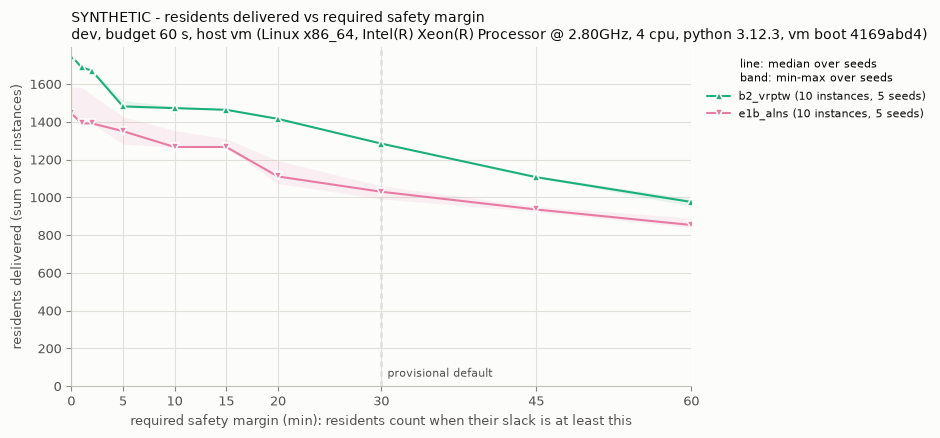
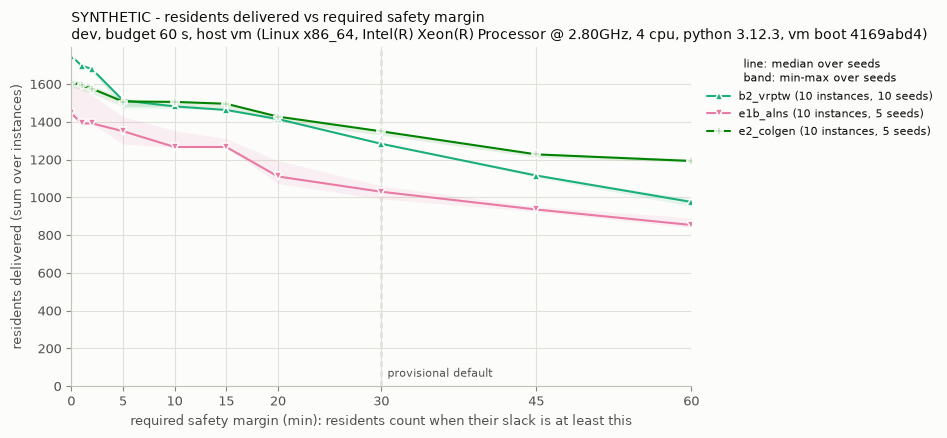
evacplan: leaderboard with E1b, E2 and both B2 partners (vm boot 4169abd4: B2 1749 in 10 seeds; E1b no, worst 1444; E2 no, worst 1585; speed check flagged in 4 of 4 holds)
Claude-Session: https://claude.ai/code/session_017vgyRQ18Wb67jh12VCHF54

diff --git a/evacplan/LEADERBOARD.md b/evacplan/LEADERBOARD.md
@@ -2,13 +2,13 @@
 
 Regenerated by `evacplan run` and `evacplan leaderboard` from `evacplan/results/*.csv` (committed; the plans and oracle results under `results/runs/` are not), with one safety-margin figure per table in `figures/`. Do not edit by hand.
 
-* **delivered**, **unresolved**, **model_no_route**, **not planned** and **unservable** come from `evacplan.oracle`: delivered = residents whose trip is `checked` in all K members; `unresolved` is never safe and never delivered; `model_no_route` is scoped to the hazard model, its members and horizon; not planned = residents no itinerary boards. **best bound** and **gap** come from the methods' own proofs (e.g. B3's relaxed MIP), not from the oracle. **runtime** is the harness's wall clock around the method's solve (the oracle check is not timed). **time to certified plan** = runtime + the final certification of the returned plan by a fresh oracle (cold cache), a secondary metric; final certification stays outside every method's budget, and oracle calls inside a method's search count toward its runtime (`program/DECISIONS.md`, 2026-11-02).
+* **delivered**, **unresolved**, **model_no_route**, **not planned** and **unservable** come from `evacplan.oracle`: delivered = residents whose trip is `checked` in all K members; `unresolved` is never safe and never delivered; `model_no_route` is scoped to the hazard model, its members and horizon; not planned = residents no itinerary boards. **best bound** and **gap** come from the methods' own proofs (e.g. B3's relaxed MIP), not from the oracle. **runtime** is the harness's wall clock around the method's solve, oracle calls inside its search included; the final oracle check is not part of it. **mean time to certified plan** = the mean over the method's rows of runtime + the final certification of the returned plan by a fresh oracle (cold cache), a secondary metric; final certification stays outside every method's budget, and oracle calls inside a method's search count toward its runtime (`program/DECISIONS.md`, 2026-11-02). For a method that certifies inside its loop, that oracle time is part of `runtime_s`, so its time to certified plan counts certification twice: in the loop, and in the harness's cold check.
 * **unservable** = residents that no plan can serve within the model, fleet and horizon: a scoped `model_no_route` per facility and mobility class, declared by the oracle (`results/<method>.facilities.csv`, which also holds each facility's latest first-arrival and last-departure times). They are counted again inside not planned (or model_no_route / unresolved if a plan tries them).
 * **One table per set, budget and host.** Methods are compared only at **equal wall-clock budgets** and on **the same host**: everything in a table (totals, best bounds, best of baselines, the bar for beating B2, the verdicts and the margin figure) uses only that host's rows. Rows from different hosts are never pooled or compared, and times are never compared across hosts: when the work moves to another machine, the baselines are re-run there (`program/DECISIONS.md`, 2026-11-01). The host string names the machine, its OS, CPU model and CPU count, and the Python version; on a virtual machine it ends with the VM's boot session, so each cloud session is its own host (`docs/ASSUMPTIONS.md` #92). **over budget** counts rows whose runtime exceeded the budget; a method with any such row gets no B2 verdict.
-* **Repeats**: every method runs 5 repeats (seeds 0-4, `--repeats 5`) at the same budget on a quiet machine. A per-instance cell is the median over seeds, followed by [min–max] when the seeds differ; in the method table, a total is the median of the per-seed totals, followed by their [min–max] when they differ. Time-limited methods differ between repeats even when they ignore the seed: B2's OR-Tools search is seedless, so its repeats differ only through machine load (how far the search gets within the budget), and its outcome is not monotone in that depth (`docs/ASSUMPTIONS.md` #84; each B2 row records the solutions found and the final objective).
-* **Beating B2** (`program/DECISIONS.md`, 2026-11-01): the **best-of-baselines total** is the sum over the set's instances of the most residents any baseline (B0, B1, B2, B3; any seed) delivered on that instance; **B2 best observed** is the largest B2 per-seed total over the seeds that cover every instance of the set; the **bar** is the larger of the two. A recorded observation (`docs/recorded_observations.json`, printed with its source) of a B2 total or of a best-of-baselines total, for the same set and budget on this host or on an earlier session of the same cloud VM (its host class), raises the matching part when it is larger; it never defines a part this host's own rows leave undefined. A method other than the baselines and noop beats B2 only if its worst of 5 repeats exceeds the bar: it needs at least 5 repeats, each covering every instance of the set, no row over the budget, and its lowest per-seed total must be above the bar. Otherwise the verdict is no (worst ≤ bar) or n/a (fewer than 5 repeats, a repeat missing an instance, a row over the budget, or no bar on this host).
+* **Repeats**: every method runs 5 repeats (seeds 0-4, `--repeats 5`) at the same budget on a quiet machine; B2 can have more seeds, those of its interleaved holds. A per-instance cell is the median over seeds, followed by [min–max] when the seeds differ; in the method table, a total is the median of the per-seed totals, followed by their [min–max] when they differ. Time-limited methods differ between repeats even when they ignore the seed: B2's OR-Tools search is seedless, so its repeats differ only through machine load (how far the search gets within the budget), and its outcome is not monotone in that depth (`docs/ASSUMPTIONS.md` #84; each B2 row records the solutions found and the final objective).
+* **Beating B2** (`program/DECISIONS.md`, 2026-11-01): the **best-of-baselines total** is the sum over the set's instances of the most residents any baseline (B0, B1, B2, B3; any seed) delivered on that instance; **B2 best observed** is the largest B2 per-seed total over the seeds that cover every instance of the set; the **bar** is the larger of the two. A recorded observation (`docs/recorded_observations.json`, printed with its source) of a B2 total or of a best-of-baselines total, for the same set and budget on this host or on an earlier session of the same cloud VM (its host class), raises the matching part when it is larger; it never defines a part this host's own rows leave undefined. A method other than the baselines and noop beats B2 only if its worst of 5 repeats exceeds the bar: it needs at least 5 repeats, each covering every instance of the set, no row over the budget, and its lowest per-seed total must be above the bar. Otherwise the verdict is no (worst ≤ bar) or n/a (fewer than 5 repeats, a repeat missing an instance, a row over the budget, no bar on this host, or, in a table with interleaved holds, a row with no B2 row in the same hold and pair).
 * **slack ≥ m min** = residents delivered with a safety slack of at least m minutes: the smallest oracle leg slack over their vehicle's legs from the start of its itinerary through the unloading that delivers them, each leg's slack capped at the time left before the hazard horizon (`docs/ASSUMPTIONS.md` #91). slack ≥ 0 equals delivered. The problem definition is unchanged: delivered counts every checked trip whatever its margin. **slack ≥ 30 min is the provisional default robust count** (`program/DECISIONS.md`, 2026-11-02; to be derived later from Track A's measured forecast error). Each table's figure plots residents delivered against the required margin (0-60 min).
-* **Interleaved holds**: a challenger and B2 alternate per instance and seed in one bench-lock hold (ABAB), so both see the same machine; B2's seeds continue after its earlier rows, so each hold adds repeats. The **speed check** row times a fixed workload before every pair (`results/speed/speed_check.csv`); a range over 10 % of its median is flagged.
+* **Interleaved holds**: a challenger and B2 alternate per instance and seed in one bench-lock hold (ABAB), so both see the same machine; B2's seeds continue after its rows on the hold's instances, so each hold adds repeats and replaces none, and a hold re-runs the challenger's seeds only with `--replace`. In a table with interleaved holds, a method other than B2 is judged only if each of its rows has a B2 row in the same hold and pair (`program/DECISIONS.md`, 2026-11-02); tables without them predate that rule. The **speed check** row times a fixed workload before every pair (`results/speed/speed_check.csv`); a range over 10 % of its median is flagged, and a line under the bar counts the flagged holds.
 * **mean gap** = mean of (best bound - delivered) / best bound over the method's own proven bounds (exact or relaxation methods, e.g. B3 on S instances only); a method that runs on fewer instances is summed over fewer residents (see the size table).
 * **Bound-only methods** (e.g. `e4_flow_bound`, `docs/ASSUMPTIONS.md` #94) plan nothing and only prove an upper bound on the residents any plan can deliver. Their bounds enter the best-bound column and their own bounds table (with runtime and the gap to the best plan of the table); they are left out of the method table, the verdicts and the margin figure. A proven bound does not depend on the budget that computed it, so their rows join every table of the same set and host.
 * **SYNTHETIC** rows are SYNTHETIC instances (`evacplan/instances/SPLIT.json`), not real-world results.
@@ -17,12 +17,15 @@ Regenerated by `evacplan run` and `evacplan leaderboard` from `evacplan/results/
 
 Rows from this host only; no row of another host enters this table, its bar or its figure.
 
-| method | label | instances | seeds | delivered | unresolved | model_no_route | not planned | unservable | residents | slack ≥ 5 min | slack ≥ 15 min | slack ≥ 30 min (default) | min slack (s) | mean runtime (s) | time to certified plan (s) | over budget | mean gap | B2 verdict | commit |
+| method | label | instances | seeds | delivered | unresolved | model_no_route | not planned | unservable | residents | slack ≥ 5 min | slack ≥ 15 min | slack ≥ 30 min (default) | min slack (s) | mean runtime (s) | mean time to certified plan (s) | over budget | mean gap | B2 verdict | commit |
 |---|---|---|---|---|---|---|---|---|---|---|---|---|---|---|---|---|---|---|---|
-| b2_vrptw | SYNTHETIC | 10 | 5 | 1749 (88.6%) | 0 | 0 | 226 | 1 | 1975 | 1482 [1473–1514] | 1464 [1463–1464] | 1285 [1284–1285] | 16.7 | 57.515 | 66.3 | 0 | – | baseline | dae67e867e98 |
+| b2_vrptw | SYNTHETIC | 10 | 10 | 1749 (88.6%) | 0 | 0 | 226 | 1 | 1975 | 1514 [1473–1523] | 1463 [1463–1464] | 1284 [1284–1285] | 16.7 | 57.516 | 66.0 | 0 | – | baseline | ceca7380f686, dae67e867e98 |
 | e1b_alns | SYNTHETIC | 10 | 5 | 1446 (73.2%) [1444–1583] | 0 | 0 | 529 [392–531] | 1 | 1975 | 1351 [1283–1428] | 1267 [1265–1311] | 1030 [992–1061] | 1.9 | 56.748 | 66.3 | 0 | – | no (worst 1444 ≤ bar 1751) | dae67e867e98 |
+| e2_colgen | SYNTHETIC | 10 | 5 | 1611 (81.6%) [1585–1627] | 0 | 0 | 364 [348–390] | 1 | 1975 | 1508 [1482–1524] | 1496 [1472–1498] | 1350 [1330–1356] | 35.7 | 36.483 | 44.8 | 0 | 0.090 | no (worst 1585 ≤ bar 1751) | ceca7380f686 |
 
 Bar for beating B2 on this host: max(B2 best observed 1750 [recorded (an earlier session of this host class): Phase 0 review, B2's full run on dev at 60 s, review of commit 957e6720 (program/reviews/phase0-review.md)], best-of-baselines total 1751 [this host's baseline rows 1749; recorded (an earlier session of this host class): best-of-baselines total of the baseline rows committed at b43990bb (results at 1373bb3f; B2 delivered 517 on SYNTHETIC-L-grid-t50-s109), stated by Siyeong in his checkpoint-2 answer 3 (program/DECISIONS.md, 2026-11-01)]) = 1751; a method beats B2 only if its worst of ≥5 repeats exceeds 1751 and none of its rows is over the budget.
+
+Speed check flagged in 4 of 4 holds (probe spread over 10 % of the median): timings on this host are indicative; final timed results are re-run on the Mac (DECISIONS 2026-11-02).
 
 Interleaved holds (ABAB in one lock hold; per-seed totals over the hold's instances):
 
@@ -34,6 +37,12 @@ Interleaved holds (ABAB in one lock hold; per-seed totals over the hold's instan
 | 20261102T144553Z-e1b_alns-x-b2_vrptw-o0 | 2 | 10 | b2_vrptw | 1044 | 1044 |
 |  |  |  | e1b_alns | 730 [730–869] | 730 |
 |  |  |  | speed check (s) | 0.152 [0.104–0.217] | spread 74 % ⚠ over 10 % |
+| 20261102T153902Z-e2_colgen-x-b2_vrptw-o5 | 8 | 40 | b2_vrptw | 705 | 705 |
+|  |  |  | e2_colgen | 682 [681–689] | 681 |
+|  |  |  | speed check (s) | 0.142 [0.093–0.254] | spread 114 % ⚠ over 10 % |
+| 20261102T164918Z-e2_colgen-x-b2_vrptw-o5 | 2 | 10 | b2_vrptw | 1044 | 1044 |
+|  |  |  | e2_colgen | 929 [904–938] | 904 |
+|  |  |  | speed check (s) | 0.122 [0.097–0.237] | spread 115 % ⚠ over 10 % |
 
 Recorded B2 observation for this set and budget from an earlier session of this host class (not in the rows; `docs/recorded_observations.json`): 1750 delivered, 0 unresolved [Phase 0 review, B2's full run on dev at 60 s, review of commit 957e6720 (program/reviews/phase0-review.md)].
 
@@ -45,78 +54,78 @@ Residents delivered vs required safety margin (line: median over seeds; band: mi
 
 Delivered (checked) per instance, median over seeds [min–max when they differ]; **best bound** = the smallest proven upper bound any method reports for the instance, bound-only methods included (no plan can deliver more); **best of baselines** = the most residents any baseline delivered on the instance (any seed), summed in the bar above:
 
-| instance | label | residents | unservable | best bound | best of baselines | b2_vrptw | e1b_alns |
-|---|---|---|---|---|---|---|---|
-| SYNTHETIC-S-grid-t25-s101 | SYNTHETIC | 23 | 0 | – | 23 | 23 | 23 |
-| SYNTHETIC-S-geo-t25-s102 | SYNTHETIC | 39 | 0 | – | 36 | 36 | 37 |
-| SYNTHETIC-S-grid-t75-s103 | SYNTHETIC | 27 | 1 | – | 23 | 23 | 23 |
-| SYNTHETIC-S-geo-t75-s104 | SYNTHETIC | 26 | 0 | – | 26 | 26 | 26 |
-| SYNTHETIC-M-grid-t25-s105 | SYNTHETIC | 163 | 0 | – | 163 | 163 | 163 |
-| SYNTHETIC-M-geo-t25-s106 | SYNTHETIC | 155 | 0 | – | 155 | 155 | 155 |
-| SYNTHETIC-M-grid-t75-s107 | SYNTHETIC | 168 | 0 | – | 140 | 140 | 148 [148–150] |
-| SYNTHETIC-M-geo-t75-s108 | SYNTHETIC | 149 | 0 | – | 139 | 139 | 139 |
-| SYNTHETIC-L-grid-t50-s109 | SYNTHETIC | 646 | 0 | – | 516 | 516 | 335 [335–427] |
-| SYNTHETIC-L-geo-t50-s110 | SYNTHETIC | 579 | 0 | – | 528 | 528 | 395 [395–486] |
+| instance | label | residents | unservable | best bound | best of baselines | b2_vrptw | e1b_alns | e2_colgen |
+|---|---|---|---|---|---|---|---|---|
+| SYNTHETIC-S-grid-t25-s101 | SYNTHETIC | 23 | 0 | 23 | 23 | 23 | 23 | 23 |
+| SYNTHETIC-S-geo-t25-s102 | SYNTHETIC | 39 | 0 | 39 | 36 | 36 | 37 | 37 |
+| SYNTHETIC-S-grid-t75-s103 | SYNTHETIC | 27 | 1 | 25 | 23 | 23 | 23 | 23 |
+| SYNTHETIC-S-geo-t75-s104 | SYNTHETIC | 26 | 0 | 26 | 26 | 26 | 26 | 26 |
+| SYNTHETIC-M-grid-t25-s105 | SYNTHETIC | 163 | 0 | 163 | 163 | 163 | 163 | 163 |
+| SYNTHETIC-M-geo-t25-s106 | SYNTHETIC | 155 | 0 | 155 | 155 | 155 | 155 | 155 |
+| SYNTHETIC-M-grid-t75-s107 | SYNTHETIC | 168 | 0 | 156 | 140 | 140 | 148 [148–150] | 131 [131–138] |
+| SYNTHETIC-M-geo-t75-s108 | SYNTHETIC | 149 | 0 | 143 | 139 | 139 | 139 | 124 [123–124] |
+| SYNTHETIC-L-grid-t50-s109 | SYNTHETIC | 646 | 0 | 646 | 516 | 516 | 335 [335–427] | 446 [421–455] |
+| SYNTHETIC-L-geo-t50-s110 | SYNTHETIC | 579 | 0 | 579 | 528 | 528 | 395 [395–486] | 483 |
 
 Unresolved per instance (never safe, never delivered), median over seeds [min–max when they differ]:
 
-| instance | label | b2_vrptw | e1b_alns |
-|---|---|---|---|
-| SYNTHETIC-S-grid-t25-s101 | SYNTHETIC | 0 | 0 |
-| SYNTHETIC-S-geo-t25-s102 | SYNTHETIC | 0 | 0 |
-| SYNTHETIC-S-grid-t75-s103 | SYNTHETIC | 0 | 0 |
-| SYNTHETIC-S-geo-t75-s104 | SYNTHETIC | 0 | 0 |
-| SYNTHETIC-M-grid-t25-s105 | SYNTHETIC | 0 | 0 |
-| SYNTHETIC-M-geo-t25-s106 | SYNTHETIC | 0 | 0 |
-| SYNTHETIC-M-grid-t75-s107 | SYNTHETIC | 0 | 0 |
-| SYNTHETIC-M-geo-t75-s108 | SYNTHETIC | 0 | 0 |
-| SYNTHETIC-L-grid-t50-s109 | SYNTHETIC | 0 | 0 |
-| SYNTHETIC-L-geo-t50-s110 | SYNTHETIC | 0 | 0 |
+| instance | label | b2_vrptw | e1b_alns | e2_colgen |
+|---|---|---|---|---|
+| SYNTHETIC-S-grid-t25-s101 | SYNTHETIC | 0 | 0 | 0 |
+| SYNTHETIC-S-geo-t25-s102 | SYNTHETIC | 0 | 0 | 0 |
+| SYNTHETIC-S-grid-t75-s103 | SYNTHETIC | 0 | 0 | 0 |
+| SYNTHETIC-S-geo-t75-s104 | SYNTHETIC | 0 | 0 | 0 |
+| SYNTHETIC-M-grid-t25-s105 | SYNTHETIC | 0 | 0 | 0 |
+| SYNTHETIC-M-geo-t25-s106 | SYNTHETIC | 0 | 0 | 0 |
+| SYNTHETIC-M-grid-t75-s107 | SYNTHETIC | 0 | 0 | 0 |
+| SYNTHETIC-M-geo-t75-s108 | SYNTHETIC | 0 | 0 | 0 |
+| SYNTHETIC-L-grid-t50-s109 | SYNTHETIC | 0 | 0 | 0 |
+| SYNTHETIC-L-geo-t50-s110 | SYNTHETIC | 0 | 0 | 0 |
 
 Delivered with slack ≥ 5 min per instance, median over seeds [min–max when they differ] (– : rows from before the margin columns):
 
-| instance | label | b2_vrptw | e1b_alns |
-|---|---|---|---|
-| SYNTHETIC-S-grid-t25-s101 | SYNTHETIC | 23 | 23 |
-| SYNTHETIC-S-geo-t25-s102 | SYNTHETIC | 36 | 37 |
-| SYNTHETIC-S-grid-t75-s103 | SYNTHETIC | 8 | 4 |
-| SYNTHETIC-S-geo-t75-s104 | SYNTHETIC | 8 | 6 |
-| SYNTHETIC-M-grid-t25-s105 | SYNTHETIC | 154 [154–163] | 163 |
-| SYNTHETIC-M-geo-t25-s106 | SYNTHETIC | 155 | 155 |
-| SYNTHETIC-M-grid-t75-s107 | SYNTHETIC | 41 | 80 [68–148] |
-| SYNTHETIC-M-geo-t75-s108 | SYNTHETIC | 139 | 139 |
-| SYNTHETIC-L-grid-t50-s109 | SYNTHETIC | 516 | 281 [281–427] |
-| SYNTHETIC-L-geo-t50-s110 | SYNTHETIC | 393 [393–434] | 395 [388–395] |
+| instance | label | b2_vrptw | e1b_alns | e2_colgen |
+|---|---|---|---|---|
+| SYNTHETIC-S-grid-t25-s101 | SYNTHETIC | 23 | 23 | 23 |
+| SYNTHETIC-S-geo-t25-s102 | SYNTHETIC | 36 | 37 | 37 |
+| SYNTHETIC-S-grid-t75-s103 | SYNTHETIC | 8 | 4 | 6 |
+| SYNTHETIC-S-geo-t75-s104 | SYNTHETIC | 8 | 6 | 8 |
+| SYNTHETIC-M-grid-t25-s105 | SYNTHETIC | 163 [154–163] | 163 | 163 |
+| SYNTHETIC-M-geo-t25-s106 | SYNTHETIC | 155 | 155 | 155 |
+| SYNTHETIC-M-grid-t75-s107 | SYNTHETIC | 41 | 80 [68–148] | 63 [63–70] |
+| SYNTHETIC-M-geo-t75-s108 | SYNTHETIC | 139 | 139 | 124 [123–124] |
+| SYNTHETIC-L-grid-t50-s109 | SYNTHETIC | 516 | 281 [281–427] | 446 [421–455] |
+| SYNTHETIC-L-geo-t50-s110 | SYNTHETIC | 434 [393–434] | 395 [388–395] | 483 |
 
 Delivered with slack ≥ 15 min per instance, median over seeds [min–max when they differ] (– : rows from before the margin columns):
 
-| instance | label | b2_vrptw | e1b_alns |
-|---|---|---|---|
-| SYNTHETIC-S-grid-t25-s101 | SYNTHETIC | 23 | 23 |
-| SYNTHETIC-S-geo-t25-s102 | SYNTHETIC | 36 | 37 |
-| SYNTHETIC-S-grid-t75-s103 | SYNTHETIC | 8 | 4 |
-| SYNTHETIC-S-geo-t75-s104 | SYNTHETIC | 8 | 6 |
-| SYNTHETIC-M-grid-t25-s105 | SYNTHETIC | 154 [153–154] | 163 |
-| SYNTHETIC-M-geo-t25-s106 | SYNTHETIC | 155 | 155 |
-| SYNTHETIC-M-grid-t75-s107 | SYNTHETIC | 41 | 79 [68–80] |
-| SYNTHETIC-M-geo-t75-s108 | SYNTHETIC | 139 | 139 |
-| SYNTHETIC-L-grid-t50-s109 | SYNTHETIC | 516 | 281 [281–326] |
-| SYNTHETIC-L-geo-t50-s110 | SYNTHETIC | 384 | 379 [379–383] |
+| instance | label | b2_vrptw | e1b_alns | e2_colgen |
+|---|---|---|---|---|
+| SYNTHETIC-S-grid-t25-s101 | SYNTHETIC | 23 | 23 | 23 |
+| SYNTHETIC-S-geo-t25-s102 | SYNTHETIC | 36 | 37 | 27 |
+| SYNTHETIC-S-grid-t75-s103 | SYNTHETIC | 8 | 4 | 6 |
+| SYNTHETIC-S-geo-t75-s104 | SYNTHETIC | 8 | 6 | 8 |
+| SYNTHETIC-M-grid-t25-s105 | SYNTHETIC | 153 [153–154] | 163 | 163 |
+| SYNTHETIC-M-geo-t25-s106 | SYNTHETIC | 155 | 155 | 155 |
+| SYNTHETIC-M-grid-t75-s107 | SYNTHETIC | 41 | 79 [68–80] | 63 [52–66] |
+| SYNTHETIC-M-geo-t75-s108 | SYNTHETIC | 139 | 139 | 124 [123–124] |
+| SYNTHETIC-L-grid-t50-s109 | SYNTHETIC | 516 | 281 [281–326] | 446 [421–455] |
+| SYNTHETIC-L-geo-t50-s110 | SYNTHETIC | 384 | 379 [379–383] | 483 |
 
 Delivered with slack ≥ 30 min per instance, median over seeds [min–max when they differ] (– : rows from before the margin columns):
 
-| instance | label | b2_vrptw | e1b_alns |
-|---|---|---|---|
-| SYNTHETIC-S-grid-t25-s101 | SYNTHETIC | 23 | 23 |
-| SYNTHETIC-S-geo-t25-s102 | SYNTHETIC | 14 | 15 |
-| SYNTHETIC-S-grid-t75-s103 | SYNTHETIC | 0 | 0 |
-| SYNTHETIC-S-geo-t75-s104 | SYNTHETIC | 0 | 6 |
-| SYNTHETIC-M-grid-t25-s105 | SYNTHETIC | 154 [153–154] | 163 |
-| SYNTHETIC-M-geo-t25-s106 | SYNTHETIC | 155 | 155 |
-| SYNTHETIC-M-grid-t75-s107 | SYNTHETIC | 41 | 30 [5–43] |
-| SYNTHETIC-M-geo-t75-s108 | SYNTHETIC | 111 | 139 |
-| SYNTHETIC-L-grid-t50-s109 | SYNTHETIC | 491 | 225 [178–262] |
-| SYNTHETIC-L-geo-t50-s110 | SYNTHETIC | 296 | 261 [261–352] |
+| instance | label | b2_vrptw | e1b_alns | e2_colgen |
+|---|---|---|---|---|
+| SYNTHETIC-S-grid-t25-s101 | SYNTHETIC | 23 | 23 | 23 |
+| SYNTHETIC-S-geo-t25-s102 | SYNTHETIC | 14 | 15 | 27 |
+| SYNTHETIC-S-grid-t75-s103 | SYNTHETIC | 0 | 0 | 0 |
+| SYNTHETIC-S-geo-t75-s104 | SYNTHETIC | 0 | 6 | 0 |
+| SYNTHETIC-M-grid-t25-s105 | SYNTHETIC | 153 [153–154] | 163 | 163 |
+| SYNTHETIC-M-geo-t25-s106 | SYNTHETIC | 155 | 155 | 155 |
+| SYNTHETIC-M-grid-t75-s107 | SYNTHETIC | 41 | 30 [5–43] | 36 [27–66] |
+| SYNTHETIC-M-geo-t75-s108 | SYNTHETIC | 111 | 139 | 119 [118–123] |
+| SYNTHETIC-L-grid-t50-s109 | SYNTHETIC | 491 | 225 [178–262] | 442 [417–450] |
+| SYNTHETIC-L-geo-t50-s110 | SYNTHETIC | 296 | 261 [261–352] | 386 |
 
 Delivered (checked) by instance size: sum of the per-instance medians / residents of the instances the method ran (count); compare methods only on equal counts:
 
@@ -124,12 +133,13 @@ Delivered (checked) by instance size: sum of the per-instance medians / resident
 |---|---|---|---|
 | b2_vrptw | 108 / 115 (4) | 597 / 635 (4) | 1044 / 1225 (2) |
 | e1b_alns | 109 / 115 (4) | 605 / 635 (4) | 730 / 1225 (2) |
+| e2_colgen | 109 / 115 (4) | 573 / 635 (4) | 929 / 1225 (2) |
 
 ## dev, budget 60 s, host vm (Linux x86_64, Intel(R) Xeon(R) Processor @ 2.80GHz, 4 cpu, python 3.12.3, vm boot ff671362)
 
 Rows from this host only; no row of another host enters this table, its bar or its figure.
 
-| method | label | instances | seeds | delivered | unresolved | model_no_route | not planned | unservable | residents | slack ≥ 5 min | slack ≥ 15 min | slack ≥ 30 min (default) | min slack (s) | mean runtime (s) | time to certified plan (s) | over budget | mean gap | B2 verdict | commit |
+| method | label | instances | seeds | delivered | unresolved | model_no_route | not planned | unservable | residents | slack ≥ 5 min | slack ≥ 15 min | slack ≥ 30 min (default) | min slack (s) | mean runtime (s) | mean time to certified plan (s) | over budget | mean gap | B2 verdict | commit |
 |---|---|---|---|---|---|---|---|---|---|---|---|---|---|---|---|---|---|---|---|
 | b0_independent | SYNTHETIC | 10 | 5 | 1157 (58.6%) | 0 | 0 | 818 | 1 | 1975 | 1157 | 1122 | 1042 | 403.2 | 1.117 | – | 0 | – | baseline | c888a87b02c5 |
 | b1_greedy | SYNTHETIC | 10 | 5 | 1353 (68.5%) | 0 | 0 | 622 | 1 | 1975 | 1231 | 1189 | 956 | 1.9 | 3.987 | – | 0 | – | baseline | c888a87b02c5 |
